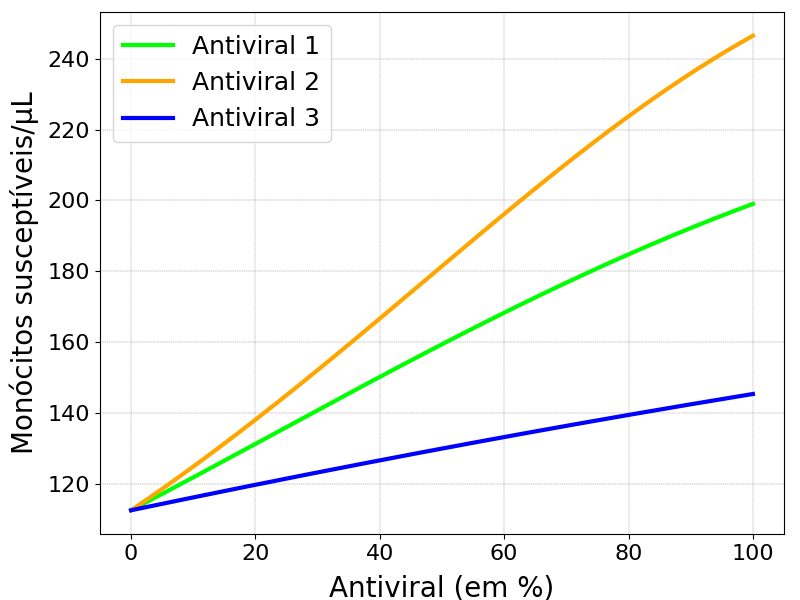
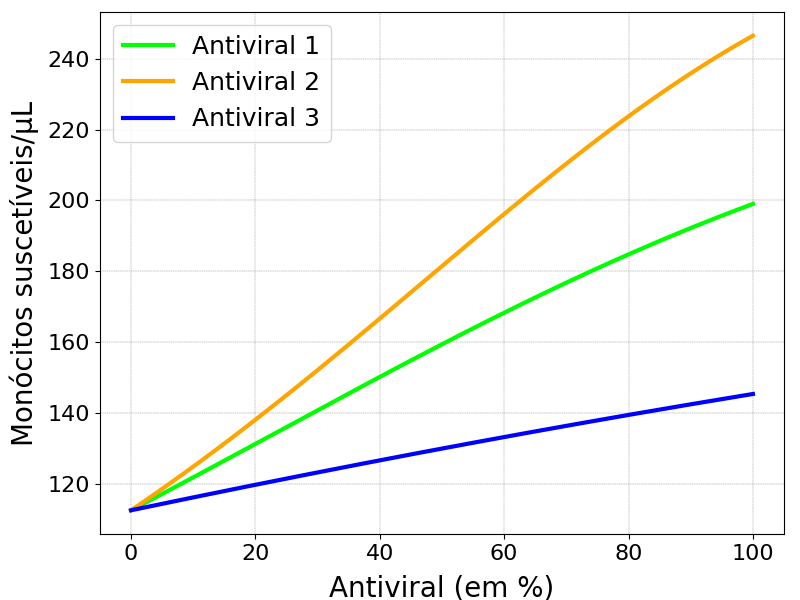
Refactor: Update options for eixo_y_label in graph_from_csv_data.py

Changed region(s): [[0.0, 0.15, 0.0625, 0.75]]

diff --git a/graph_from_csv_data.py b/graph_from_csv_data.py
@@ -35,9 +35,9 @@ def graph_3data_generator(csv1, csv2, csv3, eixo_y_label, nome,eixo_x,eixo_y):
 
 base_path = os.path.dirname(os.path.abspath(__file__))
 
-population_path = "t_lymphocytes_antiviral" # Options: "susceptible_monocytes_antiviral", "infected_monocytes_antiviral", "viral_particles_antiviral", "t_lymphocytes_antiviral"
-label_1 = "Linfocitos T/uL"             # Options: "Monocitos susceptiveis/uL", "Monocitos infectados/uL", "Particulas virais/uL","Linfocitos T/uL"
-eixo_y_label = "Linfócitos T/\u03bcL"    # Options:"Monócitos susceptíveis/\u03bcL", "Monócitos infectados/\u03bcL", "Partículas virais/\u03bcL","Linfócitos T/\u03bcL"
+population_path = "susceptible_monocytes_antiviral" # Options: "susceptible_monocytes_antiviral", "infected_monocytes_antiviral", "viral_particles_antiviral", "t_lymphocytes_antiviral"
+label_1 = "Monocitos susceptiveis/uL"            # Options: "Monocitos susceptiveis/uL", "Monocitos infectados/uL", "Particulas virais/uL","Linfocitos T/uL"
+eixo_y_label = "Monócitos suscetíveis/\u03bcL"    # Options:"Monócitos suscetíveis/\u03bcL", "Monócitos infectados/\u03bcL", "Partículas virais/\u03bcL","Linfócitos T/\u03bcL"
 
 # Define the paths to the CSV files for the three datasets
 csv1_ref = os.path.join(base_path, "results", population_path+"_rho.csv")  # Path for the first dataset
@@ -50,7 +50,7 @@ graph_3data_generator(
     csv2_ref,           # Second dataset
     csv3_ref,           # Third dataset
     eixo_y_label,       # Label for the Y-axis
-    'grafico-z-3data',  # Name of the output graph file
+    'grafico-s-3data',  # Name of the output graph file
     "Antiviral",        # Label for the X-axis
     label_1             # Label for the Y-axis data
 )
